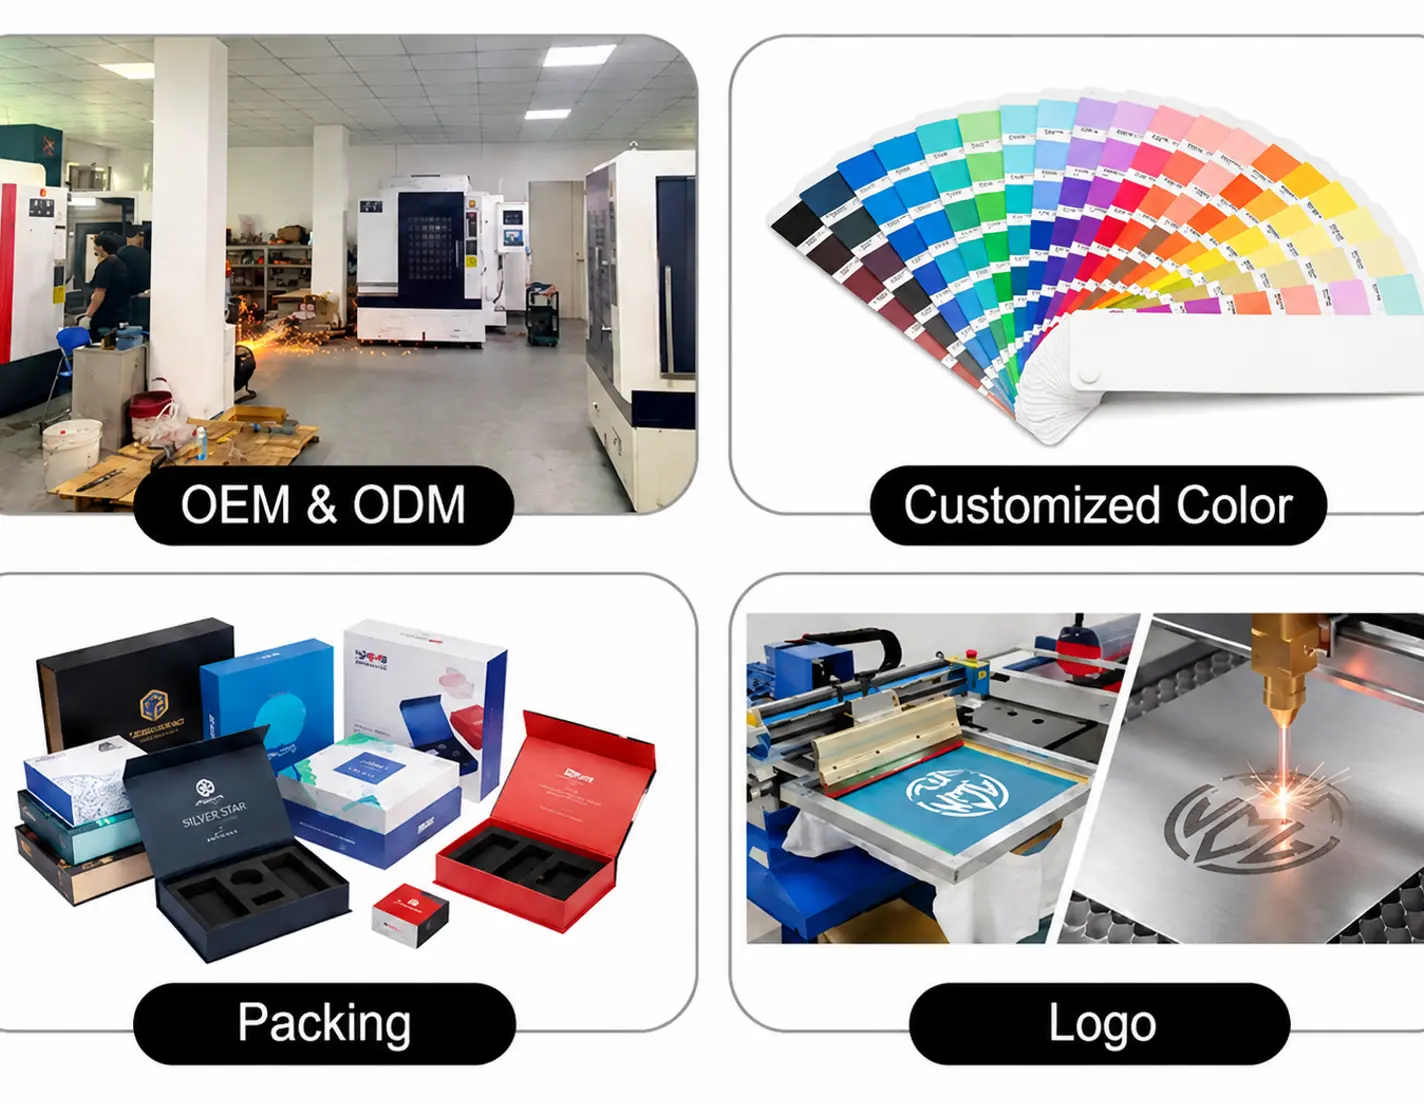
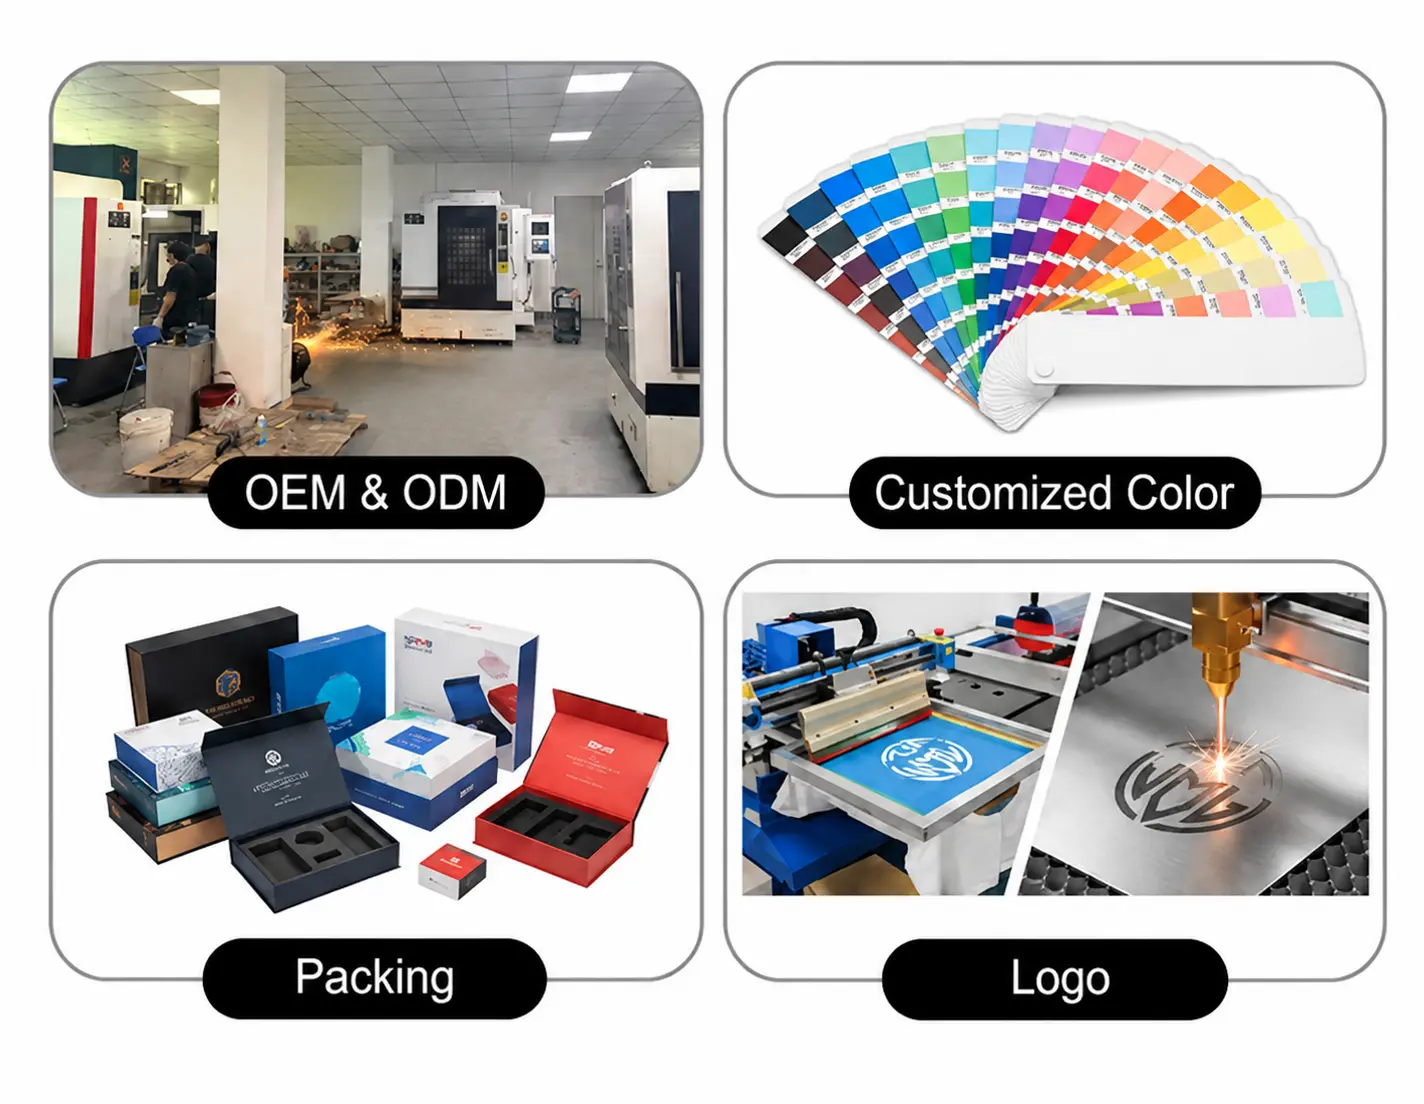
Update OEM image and fill trust bar stats (13yr/105+/2400+)

diff --git a/index.html b/index.html
@@ -100,11 +100,11 @@
     <section class="trust-bar">
       <div class="container trust-bar-inner">
         <div class="trust-item">
-          <strong>[待确认] Years</strong>
+          <strong>13 Years</strong>
           <span>Industry Experience</span>
         </div>
         <div class="trust-item">
-          <strong>[待确认]+</strong>
+          <strong>105+</strong>
           <span>Countries Served</span>
         </div>
         <div class="trust-item">
@@ -112,7 +112,7 @@
           <span>Product SKUs</span>
         </div>
         <div class="trust-item">
-          <strong>[待确认]+</strong>
+          <strong>2,400+</strong>
           <span>Global Clients</span>
         </div>
         <div class="trust-item">
